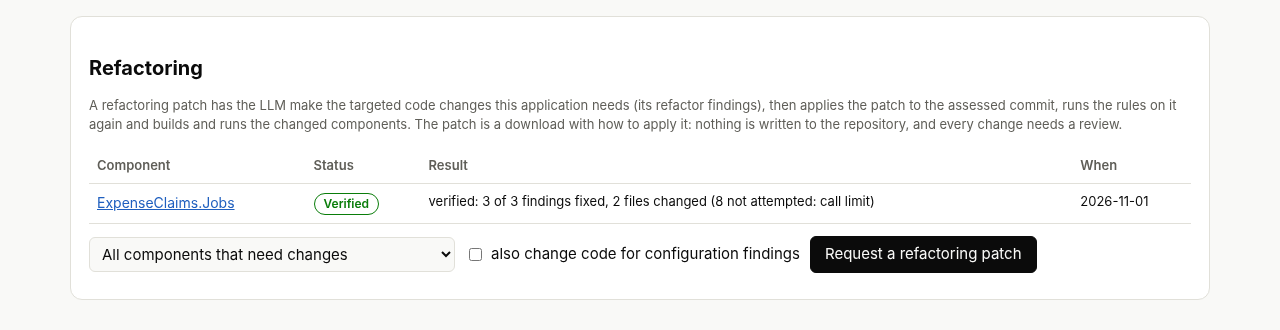
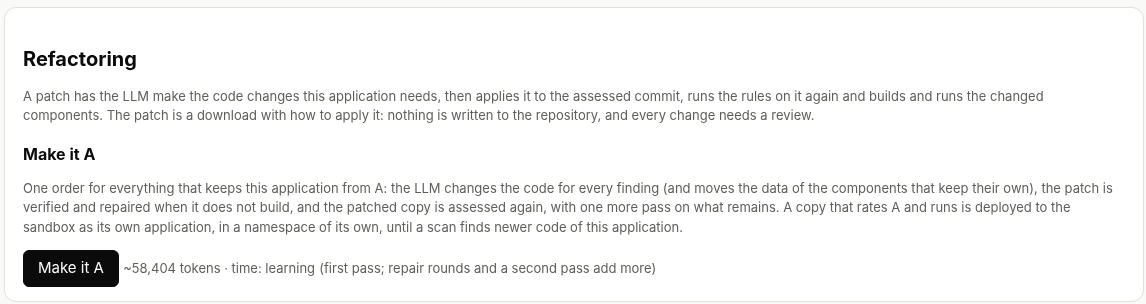
Results page: one button in the Refactoring box, Make it A
Claude-Session: https://claude.ai/code/session_01HpAsQd7rFCZs5p2smzdgaB

diff --git a/containerizer/webui.py b/containerizer/webui.py
@@ -284,15 +284,6 @@ def refactor_estimates(admin, app: dict) -> dict:
         out[(None, "rating-a")] = speed.job({"Kind": rf.KIND, "InputChars": rf.order_chars(pl), "Model": None})
     except rf.RefactorError:
         pass
-    targets = [(None, None)] + [(int(c["ComponentId"]), c["ProjectPath"]) for c in app.get("components") or []]
-    for cid, path in targets:
-        for goal in ("fix", "stateless"):
-            try:
-                pl = rf.build_payload(doc, {"type": "none"}, None, component=path, goal=goal)
-            except rf.RefactorError:
-                continue
-            chars = rf.estimate_chars(pl) + (6000 * len(pl.get("state") or []) if goal == "stateless" else 0)
-            out[(cid, goal)] = speed.job({"Kind": rf.KIND, "InputChars": chars, "Model": None})
     return out
 
 
@@ -355,12 +346,15 @@ def existing_offer(o: dict, ctx: dict, app_id, comp_id, goal: str, speed=None) -
         head = "A patch is ready" if st == "verified" else "A patch was made"
         links = (f" <a href='/admin/refactoring/{jid}'>Open the patch</a> · "
                  f"<a href='/admin/refactoring/{jid}.patch'>Download .patch</a>") if staff else ""
+        # the earlier targeted or data-move orders are not offered again: Make it A does both (one button)
         again = (" " + order_button(app_id, comp_id, goal, ctx["csrf"], "Request a new one", None, small=True)
-                 if staff else "")
+                 if staff and goal == "rating-a" else "")
         return (f"<b>{head}:</b> {chip} <span class='small'>{e(o.get('Summary') or '')}</span>"
                 + (f" <span class='muted small'>{e(eff)}</span>" if eff else "") + links
-                + f"<div class='muted small'>Made for commit {e(str(o.get('SourceCommit') or '')[:12])}; request a new "
-                  f"one when the code has changed.{again}</div>")
+                + f"<div class='muted small'>Made for commit {e(str(o.get('SourceCommit') or '')[:12])}; "
+                  + ("request a new one when the code has changed." if goal == "rating-a" else
+                     "<a href='#refactoring'>Make it A</a> makes these changes and the rest, verified in the sandbox.")
+                  + f"{again}</div>")
     link = f" <a href='/admin/refactoring/{jid}'>Follow it</a>" if staff else ""
     return (f"<b>Already requested:</b> {chip}" + (f" <span class='muted small'>{e(eff)}</span>" if eff else "") + link)
 
@@ -432,16 +426,15 @@ def _refactoring(app: dict, ctx: dict | None) -> str:
                     + (f"<div class='muted'>{e(why)}</div>" if why else "") + "</td>"
                     f"<td class='small nowrap'>{when}</td></tr>")
     out = ["<section class='card refactor' id='refactoring'><h2>Refactoring</h2>" + (ctx or {}).get("notice", "") +
-           "<p class='muted small'>A refactoring patch has the LLM make the targeted code changes this application needs "
-           "(its refactor findings), then applies the patch to the assessed commit, runs the rules on it again and builds "
-           "and runs the changed components. The patch is a download with how to apply it: nothing is written to the "
-           "repository, and every change needs a review.</p>"]
+           "<p class='muted small'>A patch has the LLM make the code changes this application needs, then applies it "
+           "to the assessed commit, runs the rules on it again and builds and runs the changed components. The patch "
+           "is a download with how to apply it: nothing is written to the repository, and every change needs a "
+           "review.</p>"]
     if rows:
         out.append("<table><thead><tr><th>Component</th><th>Status</th><th>Result</th><th>When</th></tr></thead>"
                    f"<tbody>{''.join(rows)}</tbody></table>")
     _, stateful, refactor = rating_why(app)
     if staff and app.get("Rating") == "B":
-        hidden = (f"{ctx['csrf']}<input type='hidden' name='ApplicationId' value='{int(app['ApplicationId'])}'>")
         if refactor or stateful:
             est = (ctx.get("estimates") or {}).get((None, "rating-a"))
             out.append("<h3>Make it A</h3><p class='muted small'>One order for everything that keeps this application "
@@ -455,38 +448,6 @@ def _refactoring(app: dict, ctx: dict | None) -> str:
                           order_button(app["ApplicationId"], None, "rating-a", ctx["csrf"], "Make it A", est)
                           + (" <span class='muted small'>(first pass; repair rounds and a second pass add more)</span>"
                              if est else "")))
-        if refactor:
-            opts = "".join(f"<option value='{int(c['ComponentId'])}'>{e(c['ComponentName'])}</option>" for c in refactor)
-            have = existing_order(ctx.get("orders"), None, "fix")
-            out.append("<h3>Targeted code changes</h3>" + (
-                f"<div class='note offer'>{existing_offer(have, ctx, app['ApplicationId'], None, 'fix', ctx.get('speed'))}</div>"
-                if have else ""))
-            if not have:                     # an order is there already: its patch, and "Request a new one"
-                out.append(f"<form method='post' action='/admin/refactoring/new' class='formrow'>"
-                       f"{hidden}<input type='hidden' name='Goal' value='fix'>"
-                       f"<select name='Component' aria-label='Component'><option value=''>All components that need changes"
-                       f"</option>{opts}</select><label class='check'><input type='checkbox' name='IncludeConfig' value='1'> "
-                       f"also change code for configuration findings</label><button>Request a refactoring patch</button>"
-                       + (f" <span class='muted small'>{e(est_text((ctx.get('estimates') or {}).get((None, 'fix'))))} for all</span>"
-                          if (ctx.get('estimates') or {}).get((None, 'fix')) else "") + "</form>")
-        if stateful:
-            opts = "".join(f"<option value='{int(c['ComponentId'])}'>{e(c['ComponentName'])}</option>" for c in stateful)
-            have = existing_order(ctx.get("orders"), None, "stateless")
-            out.append("<h3>Make it stateless: move the data to SQL Server</h3>" + (
-                f"<div class='note offer'>{existing_offer(have, ctx, app['ApplicationId'], None, 'stateless', ctx.get('speed'))}</div>"
-                if have else ""))
-            if not have:
-                out.append(""
-                       "<p class='muted small'>The LLM changes the database library and its configuration (for example "
-                       "SQLite to SQL Server with Entity Framework Core, the connection string from configuration, logs to "
-                       "the console) and says in the notes how to move the existing data. Without code changes the "
-                       "component already runs as a single replica with its data file on a volume.</p>"
-                       f"<form method='post' action='/admin/refactoring/new' class='formrow'>{hidden}"
-                       f"<input type='hidden' name='Goal' value='stateless'>"
-                       f"<select name='Component' aria-label='Component'><option value=''>All components that keep data"
-                       f"</option>{opts}</select><button>Request a stateless patch</button>"
-                       + (f" <span class='muted small'>{e(est_text((ctx.get('estimates') or {}).get((None, 'stateless'))))} for all</span>"
-                          if (ctx.get('estimates') or {}).get((None, 'stateless')) else "") + "</form>")
         if not refactor and not stateful:
             out.append("<p class='muted small'>No finding of this application can be fixed in code.</p>")
     elif ctx.get("signin") and app.get("Rating") == "B":
@@ -861,6 +822,9 @@ def render_application(app: dict, nav: str = "", refactor: dict | None = None) -
     refactor = dict(refactor or {})
     refactor.update(orders=app.get("refactors") or [], speed=app.get("llm_speed"),
                     paths={int(c["ComponentId"]): c.get("ProjectPath") for c in app.get("components") or []})
+    # the components Make it A changes (it is offered for B applications): their "How to fix" points to it
+    _, st_, rf_ = rating_why(app)
+    refactor["fixable"] = {int(c["ComponentId"]) for c in st_ + rf_} if r == "B" else set()
     crumbs = (f"<a href='/'>All</a> › <a href='{e(_bu_href(app['BusinessUnitId']))}'>"
               f"{e(app['BusinessUnitName'] or UNASSIGNED)}</a> › {e(app['ProductName'] or UNASSIGNED)}"
               f"{_info_link(app.get('ProductInfoUrl'))}")
@@ -1013,7 +977,7 @@ def _plan_cell(app_id, c: dict, m: dict | None, ctx: dict | None = None) -> str:
     est = (ctx or {}).get("estimates") or {}
     if m:
         return f"<a href='#m{cid}'>How to fix ↓</a>"
-    if (cid, "fix") in est or (cid, "stateless") in est:
+    if cid in ((ctx or {}).get("fixable") or ()):
         return "<a href='#refactoring'>How to fix ↓</a>"
     return "<span class='muted'>-</span>"
 
@@ -1049,17 +1013,15 @@ def _migration(app_id, m: dict | None, ctx: dict | None = None) -> str:
         out.append("<table><thead><tr><th>Action</th><th>Replace</th><th>With</th>"
                    "</tr></thead><tbody>" + "".join(rows) + "</tbody></table>")
     ctx = ctx or {}
-    est = ctx.get("estimates") or {}
-    goal = "fix" if (cid, "fix") in est else "stateless" if (cid, "stateless") in est else None
-    have = existing_order(ctx.get("orders"), (ctx.get("paths") or {}).get(cid), goal) if goal else None
+    path = (ctx.get("paths") or {}).get(cid)
+    # an order made before Make it A was the only one (one component's targeted changes or data move): still shown
+    have = next(((g, o) for g in ("fix", "stateless") if (o := existing_order(ctx.get("orders"), path, g))), None)
     if have:
-        out.append("<div class='note offer'>" + existing_offer(have, ctx, app_id, cid, goal, ctx.get("speed")) + "</div>")
-    elif goal and ctx.get("csrf"):
-        out.append("<div class='note offer'><b>Or let Containerizer make the change:</b> the LLM writes the patch, "
-                   "Containerizer applies it, checks it with the rules and builds and runs it, and you download "
-                   "a verified patch. "
-                   + order_button(app_id, cid, goal, ctx["csrf"], "Request a refactoring patch", est[(cid, goal)])
-                   + "</div>")
+        out.append("<div class='note offer'>" + existing_offer(have[1], ctx, app_id, cid, have[0], ctx.get("speed")) + "</div>")
+    elif cid in (ctx.get("fixable") or ()) and ctx.get("csrf"):
+        out.append("<div class='note offer'><b>Or let Containerizer make the change:</b> "
+                   "<a href='#refactoring'>Make it A</a> has the LLM make it, with every other change the application "
+                   "needs, verifies the patch by building and running it, and deploys the patched copy to the sandbox.</div>")
     return "".join(out) + "</section>"
 
 

diff --git a/tests/test_refactor.py b/tests/test_refactor.py
@@ -715,7 +715,9 @@ def test_results_page_refactoring_box():
                "QueuedAt": datetime(2026, 11, 1), "FinishedAt": datetime(2026, 11, 2)}]
     staff = webui._refactoring(_app(orders=orders), {"csrf": "<input type='hidden' name='csrf' value='t'>", "signin": True})
     assert "action='/admin/refactoring/new'" in staff and "name='csrf' value='t'" in staff
-    assert "<option value='11'>Shop.Api" in staff and "value='12'" not in staff
+    # one button: Make it A (no separate targeted or stateless orders, no component picker)
+    assert staff.count("<form") == 1 and "name='Goal' value='rating-a'" in staff and ">Make it A</button>" in staff
+    assert "value='fix'" not in staff and "value='stateless'" not in staff and "<select" not in staff
     assert "href='/admin/refactoring/42'" in staff and "Verified" in staff and "&lt;1&gt;" in staff
     viewer = webui._refactoring(_app(orders=orders), {"signin": True})
     assert "Verified" in viewer and "<form" not in viewer and "/admin/refactoring/42" not in viewer

diff --git a/docs/refactoring.md b/docs/refactoring.md
@@ -17,7 +17,7 @@ credentials stay read only. You review the patch, apply it yourself and open the
 
 | Role | On the application's results page | Admin → Refactoring |
 | --- | --- | --- |
-| Admin, Operator | The **Refactoring** box: the orders and their status, and **Request a refactoring patch** | Every order: the patch, the coloured diff, Download .patch |
+| Admin, Operator | The **Refactoring** box: the orders and their status, and **Make it A** | Every order: the patch, the coloured diff, Download .patch |
 | Product owner, Viewer, anyone without sign-in | The orders and their status only | No access |
 
 Patches contain the application's source code, so only operators and administrators see them, like the
@@ -25,14 +25,16 @@ other pages that act on the source (organization scans, the LLM queue). The orde
 pages (`/admin/refactoring/new`), which check the role and the form's CSRF token; on a results page served
 without sign-in the button does not show.
 
-The box shows on applications rated **B**. Choose **All components that need changes** or one component, and
-whether to **also change code for configuration findings** (below). The order needs the assessment's
+The box shows on applications rated **B**, with one button: [**Make it A**](#make-it-a), one order for every
+change the application needs. The narrower orders it replaced on the page (the targeted changes of one component,
+or moving one component's data to SQL Server) are still there on the command line (`containerizer refactor
+--goal fix|stateless`, with `--component`), and orders made earlier keep showing with their patches. The order needs the assessment's
 commit and the repository's clone on this machine: it works for applications that an
 [organization scan](scheduled-scans.md) assessed here. For anything else, use the command line on a
 checkout.
 
-![The Refactoring box on a B-rated application's results page: the orders and Request a refactoring patch](images/results-refactoring-box.png#only-light){ .cz-shot }
-![The Refactoring box on a B-rated application's results page: the orders and Request a refactoring patch](images/results-refactoring-box-dark.png#only-dark){ .cz-shot }
+![The Refactoring box on a B-rated application's results page: the orders and Make it A](images/results-refactoring-box.png#only-light){ .cz-shot }
+![The Refactoring box on a B-rated application's results page: the orders and Make it A](images/results-refactoring-box-dark.png#only-dark){ .cz-shot }
 
 ## What is sent to the LLM
 
@@ -162,7 +164,7 @@ yourself.
 
 **Make it A** is one order for everything that keeps a B-rated application from A: its refactor findings,
 its configuration findings that name a file, and, for the server components that keep their own data, the
-move of that data to SQL Server (the same guidance as **Make it stateless**). It runs on request only:
+move of that data to SQL Server. It runs on request only:
 **Make it A** in the Refactoring box of the results page (operators, administrators and the application's
 product owners, with the queue's estimate), or **Make it A: every B application** for administrators (below). A scan
 never orders one by itself.
@@ -172,8 +174,8 @@ components that rate A once their code changes are made. For an application with
 a Linux container (no Refactoring box), the plan lists the same changes with the findings to make them by hand,
 and shows the components that are ready already in the sandbox.
 
-![The Refactoring box: an order with its tokens and time, Make it A with its estimate, and a stateless patch that was already made offered instead of a new order](images/results-make-it-a.png#only-light){ .cz-shot }
-![The Refactoring box: an order with its tokens and time, Make it A with its estimate, and a stateless patch that was already made offered instead of a new order](images/results-make-it-a-dark.png#only-dark){ .cz-shot }
+![The Refactoring box: Make it A with its estimate](images/results-make-it-a.png#only-light){ .cz-shot }
+![The Refactoring box: Make it A with its estimate](images/results-make-it-a-dark.png#only-dark){ .cz-shot }
 
 Where an order of the same kind is already waiting, running or has a patch, the box offers that order (its
 status, **Open the patch**, **Download .patch** and the commit it was made for) instead of a new one;

diff --git a/CHANGELOG.md b/CHANGELOG.md
@@ -10,6 +10,11 @@ qcow2 and VHDX images as release assets.
 
 - The Containerizer logo and name sit in the top bar's right corner of every results page, above the sign-in links,
   instead of a line of their own above the front page's title.
+- The Refactoring box on a B application's results page has one button, **Make it A**. The separate **Request a
+  refactoring patch** (targeted changes) and **Make it stateless** (data to SQL Server) orders, which Make it A
+  includes, are gone from the page, also from each component's migration assistant ("How to fix" points to Make
+  it A). They remain on the command line (`containerizer refactor --goal fix|stateless`), and earlier orders still
+  show with their patches.
 
 ## 0.10.0 (2026-11-04)
 

diff --git a/docs/sign-in.md b/docs/sign-in.md
@@ -63,7 +63,7 @@ Applications not yet mapped to a product appear on the front page for administra
 
 Refactoring patches contain source code: product owners and viewers see an order's status on the
 application's results page, but not the patch, and only administrators and operators see the
-**Request a refactoring patch** button ([who can order one](refactoring.md#who-can-order-one)).
+**Make it A** button ([who can order one](refactoring.md#who-can-order-one)).
 
 Nobody outside these lists gets into `/admin`. One person can have several roles; admin includes all of
 them. The roles are enforced by the web UI and the API, and every change in the change history records

diff --git a/docs/index.md b/docs/index.md
@@ -342,7 +342,7 @@ many tokens and hours are left, estimated from the speed it has measured on your
 
 ### From finding to a verified patch
 
-For applications that need targeted code changes, an operator orders a refactoring patch. The LLM makes
+For applications that need targeted code changes, an operator presses **Make it A**. The LLM makes
 the changes, then Containerizer applies them to the assessed commit, runs the rules again and builds and
 runs the container. You get a coloured diff, the result per finding and a `.patch` to apply with `git am`.
 
